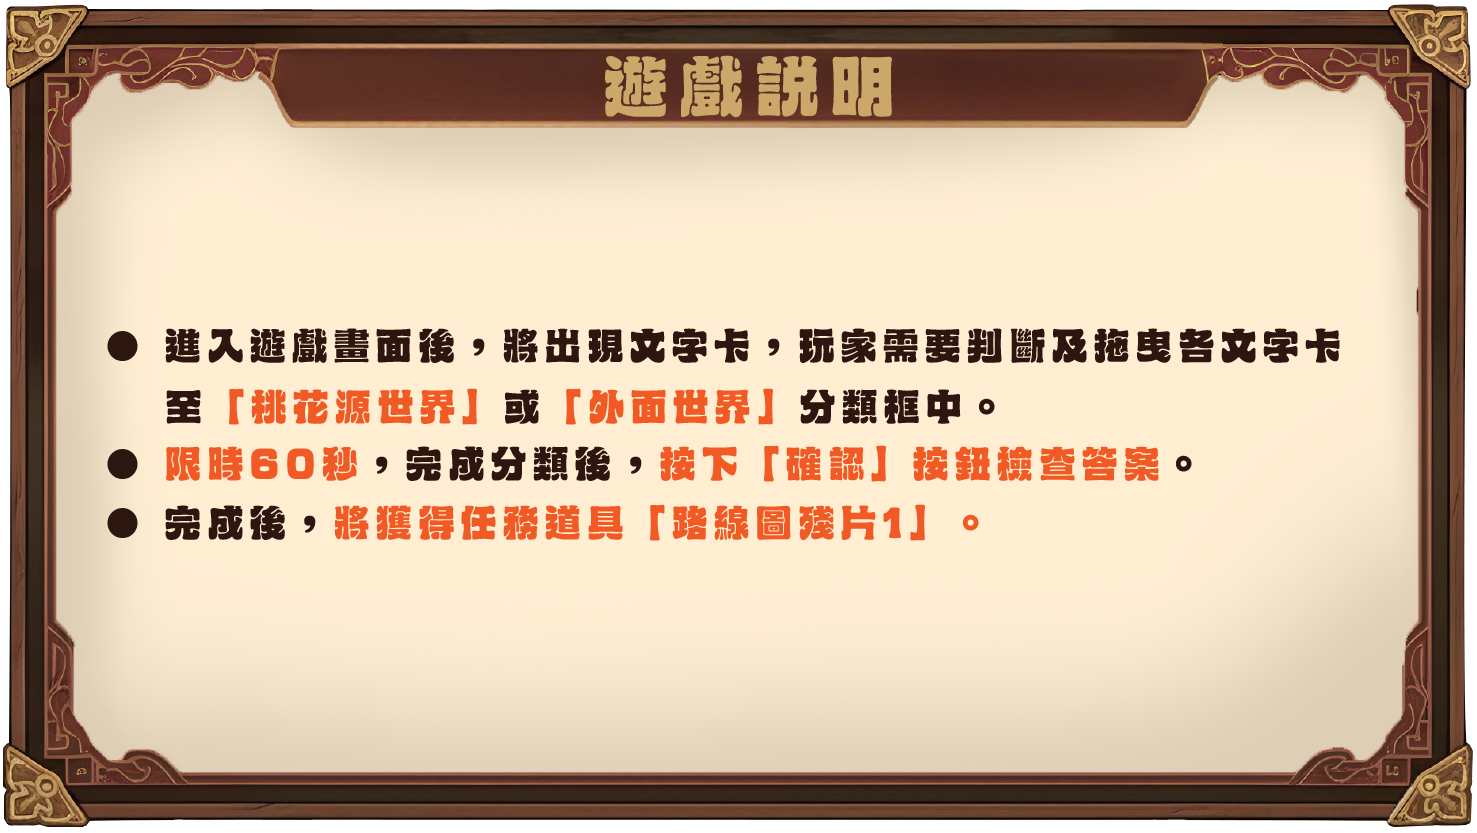
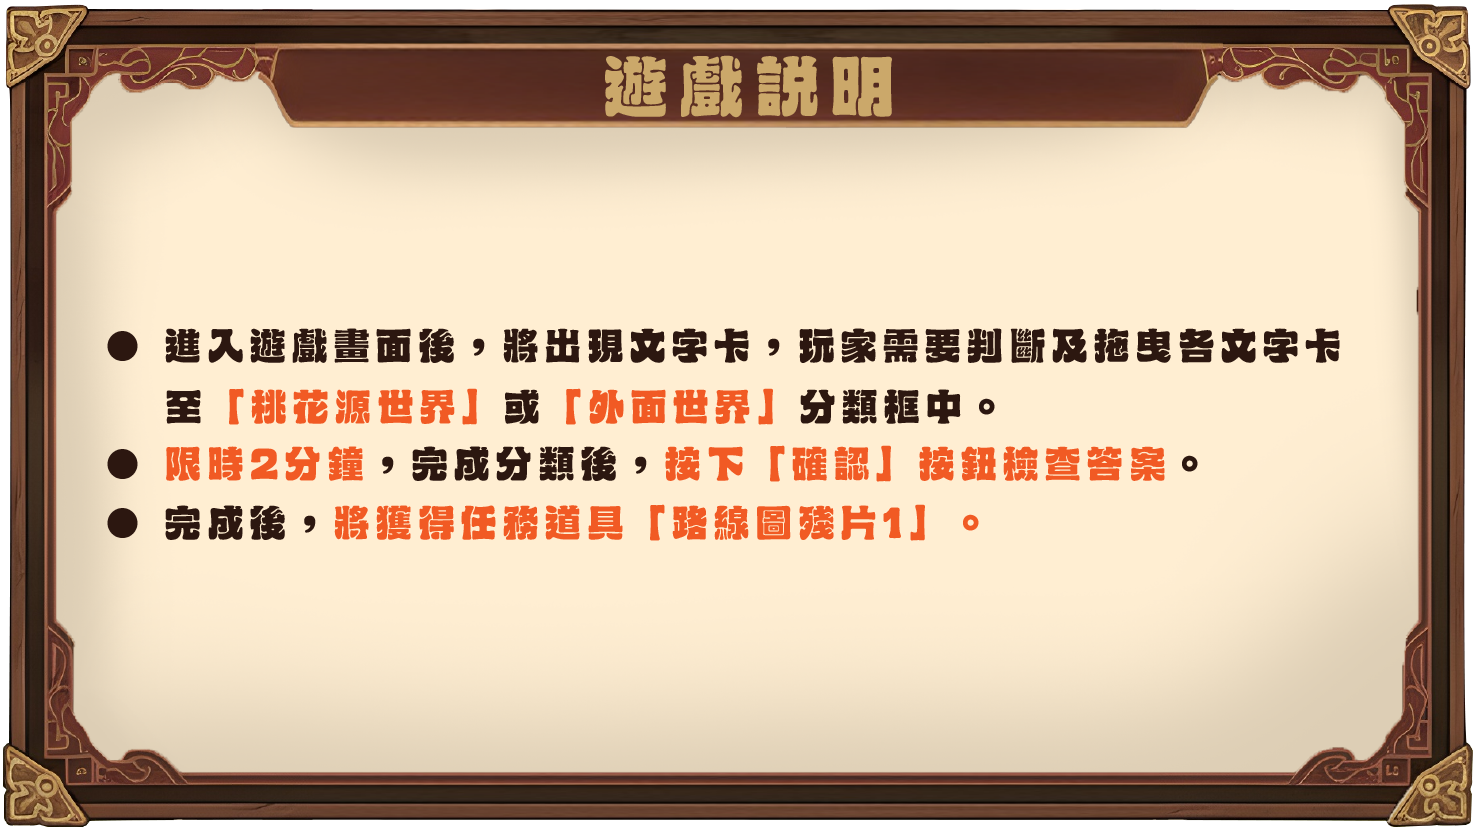
set up game 1

Changed region(s): [[0.1557, 0.5306, 0.8097, 0.593]]

diff --git a/src/scenes/Game/GameScene_6.js b/src/scenes/Game/GameScene_6.js
@@ -10,23 +10,46 @@ export class GameScene_6 extends BaseGameScene {
     }
 
     preload() {
-
+        this.load.audio('bgm', 'assets/music/bgm.mp3');
         const path = 'assets/images/Game_6/';
-        // NPC dialogue boxes (in ascending order)
-        this.load.image('game6_npc_mainstreet_fail_01', `${path}game6_npc_box1.png`);
-        this.load.image('game6_npc_mainstreet_fail_02', `${path}game6_npc_box2.png`);
-        this.load.image('game6_npc_mainstreet', `${path}game6_npc_box3.png`);
 
-        this.load.image('game6_npc_box_tryagain', `${path}game6_npc_box4.png`);
-        this.load.image('game6_npc_box_win', `${path}game6_npc_box5.png`);
+
+        this.gender = 'F';
+        if (localStorage.getItem('player')) {
+            this.gender = JSON.parse(localStorage.getItem('player')).gender;
+        }
+        if (this.gender === 'M') {
+            this.load.image('game6_bg', `${path}game6_bg_boy.png`);
+            this.load.video('game6_win_video', path + 'game6_bg_boy.mp4');
+            this.load.image('game6_npc_q1_char_win', `${path}game6_npc_box2_boy.png`);
+            this.load.image('game6_npc_q2_char_win', `${path}game6_npc_box4_boy.png`);
+            this.load.image('game6_npc_q3_char_win', `${path}game6_npc_box6_boy.png`);
+            this.load.image('game6_npc_char_win', `${path}game6_npc_box7_boy.png`);
+
+        } else {
+            this.load.image('game6_bg', `${path}game6_bg_girl.png`);
+            this.load.video('game6_win_video', path + 'game6_bg_girl.mp4');
+            this.load.image('game6_npc_q1_char_win', `${path}game6_npc_box2_girl.png`);
+            this.load.image('game6_npc_q2_char_win', `${path}game6_npc_box4_girl.png`);
+            this.load.image('game6_npc_q3_char_win', `${path}game6_npc_box6_girl.png`);
+            this.load.image('game6_npc_char_win', `${path}game6_npc_box7_girl.png`);
+
+        }
+
+        // NPC dialogue boxes (in ascending order)
+        this.load.image('game6_npc_q1_npc_win', `${path}game6_npc_box1.png`);
+        this.load.image('game6_npc_q2_npc_win', `${path}game6_npc_box3.png`);
+        this.load.image('game6_npc_q3_npc_win', `${path}game6_npc_box5.png`);
+        this.load.image('game6_npc_win', `${path}game6_npc_box8.png`);
+
+        this.load.image('game6_npc_box_tryagain', `${path}game6_npc_box9.png`);
 
         // UI buttons
         this.load.image('confirm_button', `${path}game6_confirm_button.png`);
         this.load.image('confirm_button_select', `${path}game6_confirm_button_select.png`);
 
-        for (let i = 1; i <= 5; i++) {
-            this.load.image(`game6_q${i}`, `${path}game6_q${i}_box.png`);
-            this.load.image(`game6_q${i}_description`, `${path}game6_q${i}_description.png`);
+        for (let i = 1; i <= 3; i++) {
+            this.load.image(`game6_q${i}`, `${path}game6_q${i}.png`);
             this.load.image(`game6_q${i}_a_button`, `${path}game6_q${i}_a_button.png`);
             this.load.image(`game6_q${i}_b_button`, `${path}game6_q${i}_b_button.png`);
             this.load.image(`game6_q${i}_c_button`, `${path}game6_q${i}_c_button.png`);
@@ -37,12 +60,14 @@ export class GameScene_6 extends BaseGameScene {
             this.load.image(`game6_q${i}_d_button_select`, `${path}game6_q${i}_d_button_select.png`);
         }
 
-        for (let i = 1; i <= 3; i++) {
-            this.load.image(`game6_q${i}_title`, `${path}game6_q${i}_title.png`);
-        }
     }
 
     create() {
+
+        if (this.sound.getAll('bgm').length === 0) {
+            this.sound.play('bgm', { loop: true, volume: 0.5 });
+        }
+
         // Pass null for bgKey since using video background
         this.initGame('game6_bg', 'game6_description', true, false, {
             targetRounds: 3,
@@ -63,42 +88,33 @@ export class GameScene_6 extends BaseGameScene {
             {
                 content: 'game6_q1',
                 options: ['game6_q1_a_button', 'game6_q1_b_button', 'game6_q1_c_button', 'game6_q1_d_button'],
-                answer: 2,
-                detail: 'game6_q1_description'
+                answer: 0,
+                dialoges: [
+                    'game6_npc_q1_npc_win', 'game6_npc_q1_char_win'
+                ]
             },
             {
                 content: 'game6_q2',
                 options: ['game6_q2_a_button', 'game6_q2_b_button', 'game6_q2_c_button', 'game6_q2_d_button'],
-                answer: 0,
-                detail: 'game6_q2_description'
+                answer: 3,
+                dialoges: [
+                    'game6_npc_q2_npc_win', 'game6_npc_q2_char_win'
+                ]
+
             },
             {
                 content: 'game6_q3',
                 options: ['game6_q3_a_button', 'game6_q3_b_button', 'game6_q3_c_button', 'game6_q3_d_button'],
-                answer: 2,
-                detail: 'game6_q3_description'
-            },
-            {
-                content: 'game6_q4',
-                options: ['game6_q4_a_button', 'game6_q4_b_button', 'game6_q4_c_button', 'game6_q4_d_button'],
                 answer: 1,
-                detail: 'game6_q4_description'
-            },
-            {
-                content: 'game6_q5',
-                options: ['game6_q5_a_button', 'game6_q5_b_button', 'game6_q5_c_button', 'game6_q5_d_button'],
-                answer: 2,
-                detail: 'game6_q5_description'
+                dialoges: [
+                    'game6_npc_q3_npc_win', 'game6_npc_q3_char_win',
+                    'game6_npc_char_win', 'game6_npc_win'
+                ]
             }
         ];
 
-        // Shuffle all questions using Phaser's built-in shuffle
-        Phaser.Utils.Array.Shuffle(allQuestions);
 
-        // Select the first three questions after shuffling
-        const selectedQuestions = allQuestions.slice(0, 3);
-
-        this.questionPanel = new QuestionPanel(this, selectedQuestions, () => {
+        this.questionPanel = new QuestionPanel(this, allQuestions, () => {
         });
         this.questionPanel.setDepth(559).setVisible(false);
     }
@@ -131,14 +147,16 @@ export class GameScene_6 extends BaseGameScene {
         }]);
         objectPanel.setDepth(1000);
         objectPanel.show();
-        objectPanel.setCloseCallBack(() => GameManager.backToMainStreet(this));
+        objectPanel.setCloseCallBack(
+            //  () => GameManager.backToMainStreet(this)
+        );
     }
 
 
     onRoundWin() {
         if (!this.isGameActive || this.gameState === 'gameWin') return;
 
-        let isFinalWin = (this.roundIndex + 1 >= this.targetRounds) || this.isAllowRoundFail;
+        let isFinalWin = (this.roundIndex + 1 >= this.targetRounds);
         this.gameState = isFinalWin ? 'gameWin' : 'roundWin';
 
         if (isFinalWin) {
@@ -147,7 +165,7 @@ export class GameScene_6 extends BaseGameScene {
             this.enableGameInteraction(false);
 
             this.showFeedbackLabel(true);
-            this.showBubble('win');
+            this.showBubble('noBubble');
         }
         this.updateRoundUI(true);
 

diff --git a/src/UI/Panel.js b/src/UI/Panel.js
@@ -461,31 +461,44 @@ export class QuestionPanel extends Phaser.GameObjects.Container {
         this.selectedAnswerIndex = index;
     }
 
-    showDescription() {
+    showDialogList() {
+        const centerX = this.scene.cameras.main.width / 2;
+        const centerY = this.scene.cameras.main.height * 0.8;
+        this.dialogVideo = this.scene.add.video(centerX, 0, 'game6_win_video').setDepth(300).
+            setVisible(true).setScrollFactor(0);
+        this.dialogVideo.play(true);
+
         const q = this.questions[this.currentIndex];
-        const descriptionKey = q.detail;
+        if (q.dialoges && q.dialoges.length > 0) {
+            const dialogKeys = q.dialoges;
+            let dialogIndex = 0;
 
-        console.log('Showing description for question:', descriptionKey);
+            const dialogImage = this.scene.add.image(centerX, centerY, dialogKeys[dialogIndex])
+                .setDepth(300).setInteractive({ useHandCursor: true }).setVisible(true);
 
-        this.descriptionPanel = new CustomPanel(this.scene, 960, 540, [{
-            content: descriptionKey,
-            closeBtn: 'close_btn',
-            closeBtnClick: 'close_btn_click'
-        }]);
-        this.descriptionPanel.setDepth(2000).setVisible(true);
-        this.descriptionPanel.setCloseCallBack(() => {
-            this.descriptionPanel.destroy();
-            this.descriptionPanel = null;
+            const advance = () => {
+                dialogIndex++;
+                if (dialogIndex < dialogKeys.length) {
+                    dialogImage.setTexture(dialogKeys[dialogIndex]);
+                } else {
+                    dialogImage.destroy();
+                    this.nextQuestion();
+                }
+            };
+
+            dialogImage.on('pointerdown', advance);
+        } else {
             this.nextQuestion();
-        });
+        }
     }
+
 
     checkAnswer() {
         const q = this.questions[this.currentIndex];
 
         console.log(`Selected: ${this.selectedAnswerIndex}, Correct: ${q.answer}`);
         if (this.selectedAnswerIndex === q.answer) {
-            this.showDescription();
+            this.showDialogList();
         } else {
             console.log("答錯了 , correct : " + q.answer);
             this.scene.updateRoundUI(false);
@@ -499,6 +512,7 @@ export class QuestionPanel extends Phaser.GameObjects.Container {
         this.scene.roundIndex++;
         this.currentIndex++;
         if (this.currentIndex < this.questions.length) {
+            this.dialogVideo.setVisible(false);
             this.confirmBtn.setVisible(true);
             this.selectedAnswerIndex = -1;
             this.showQuestion();